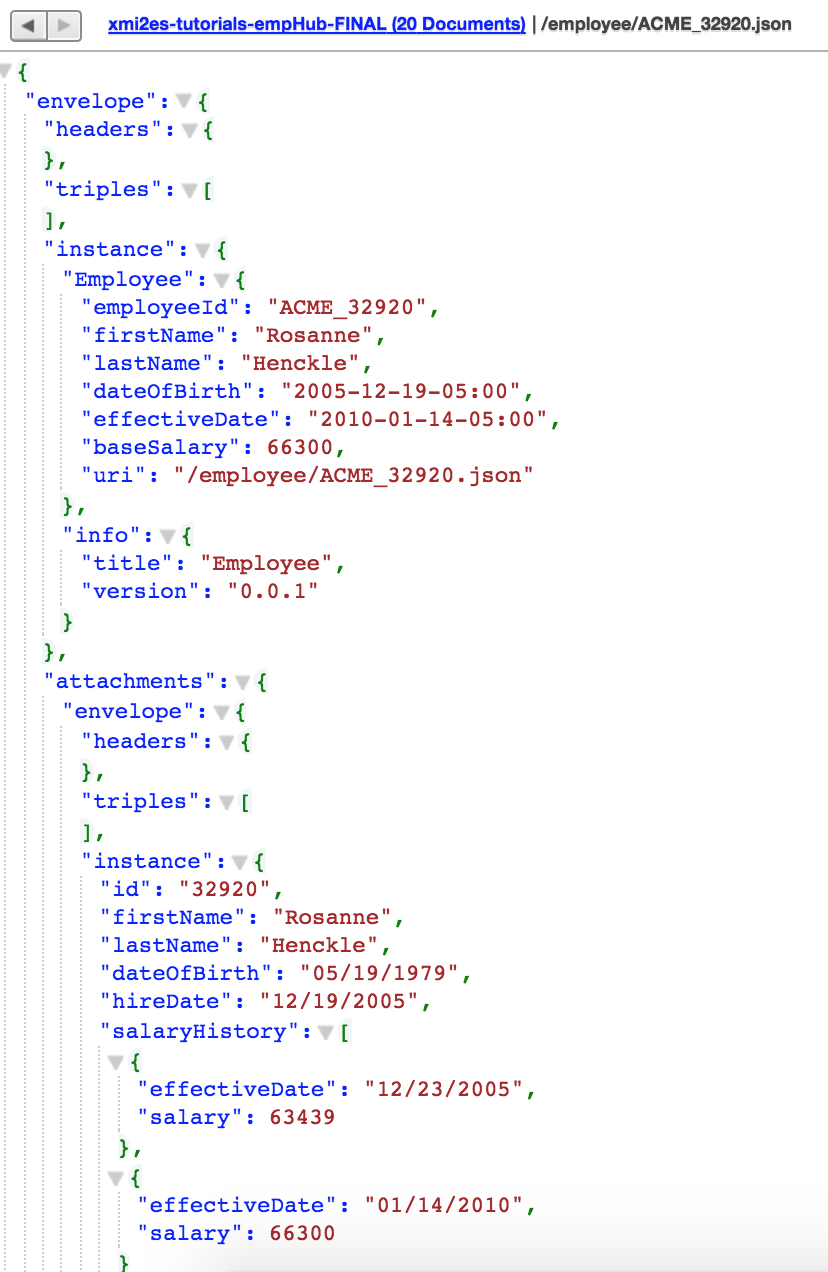
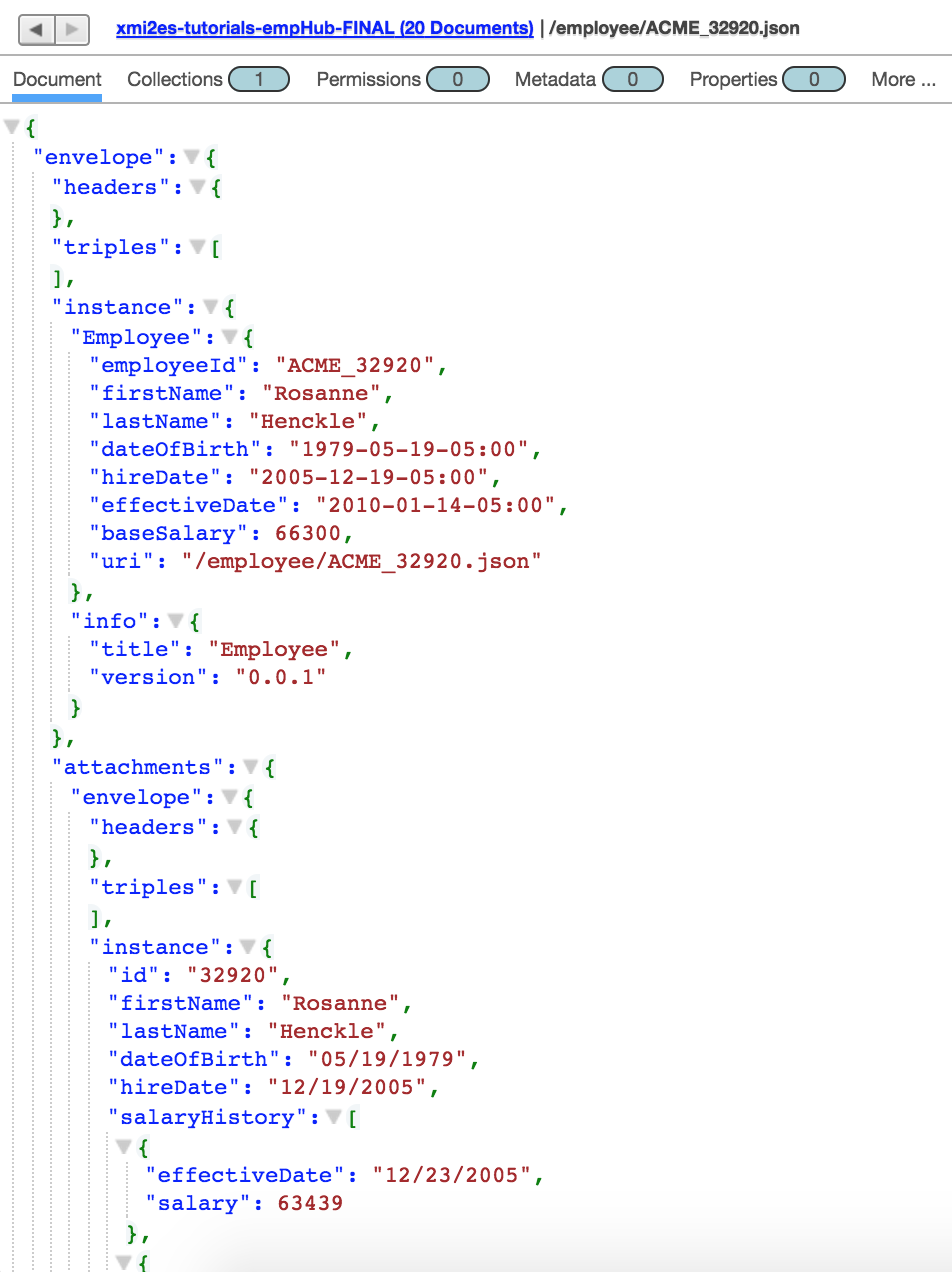
tutorial

Changed region(s): [[0.0, 0.0, 1.0, 1.0], [0.5435, 0.8278, 0.6341, 0.8585], [0.6039, 0.9198, 0.6341, 0.9505]]

diff --git a/uml2es/tutorials/employeeCradleToGrave.md b/uml2es/tutorials/employeeCradleToGrave.md
@@ -844,7 +844,7 @@ function extractInstanceEmployee(source) {
   content.firstName = instance.firstName;
   content.lastName = instance.lastName;
   if (instance.dateOfBirth) content.dateOfBirth = xs.date(xdmp.parseDateTime("[M01]/[D01]/[Y0001]", instance.dateOfBirth));
-  if (instance.hireDate) content.dateOfBirth = xs.date(xdmp.parseDateTime("[M01]/[D01]/[Y0001]", instance.hireDate));
+  if (instance.hireDate) content.hireDate = xs.date(xdmp.parseDateTime("[M01]/[D01]/[Y0001]", instance.hireDate));
   if (salaryDoc && salaryDoc.actualEffectiveDate) content.effectiveDate = xs.date(salaryDoc.actualEffectiveDate);
   if (salaryDoc && salaryDoc.salary) content.baseSalary = salaryDoc.salary;
 
